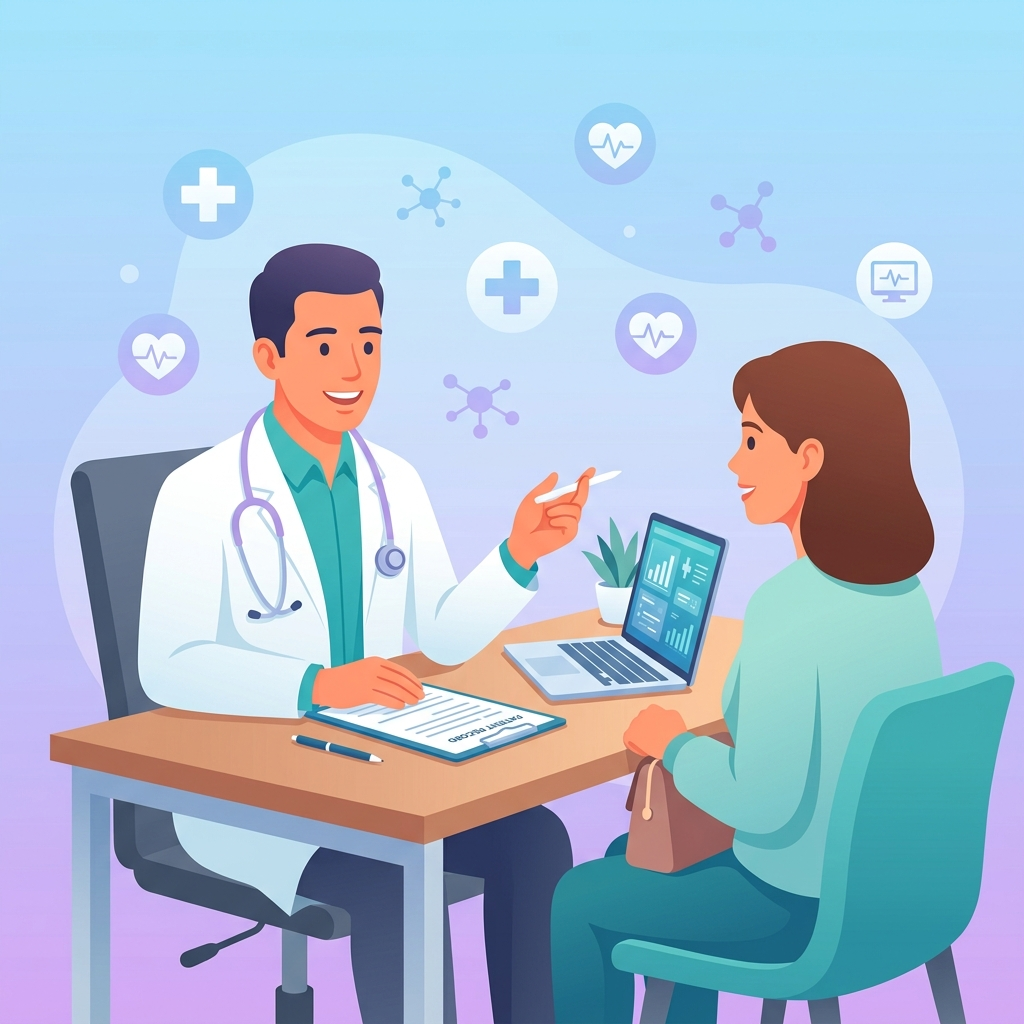
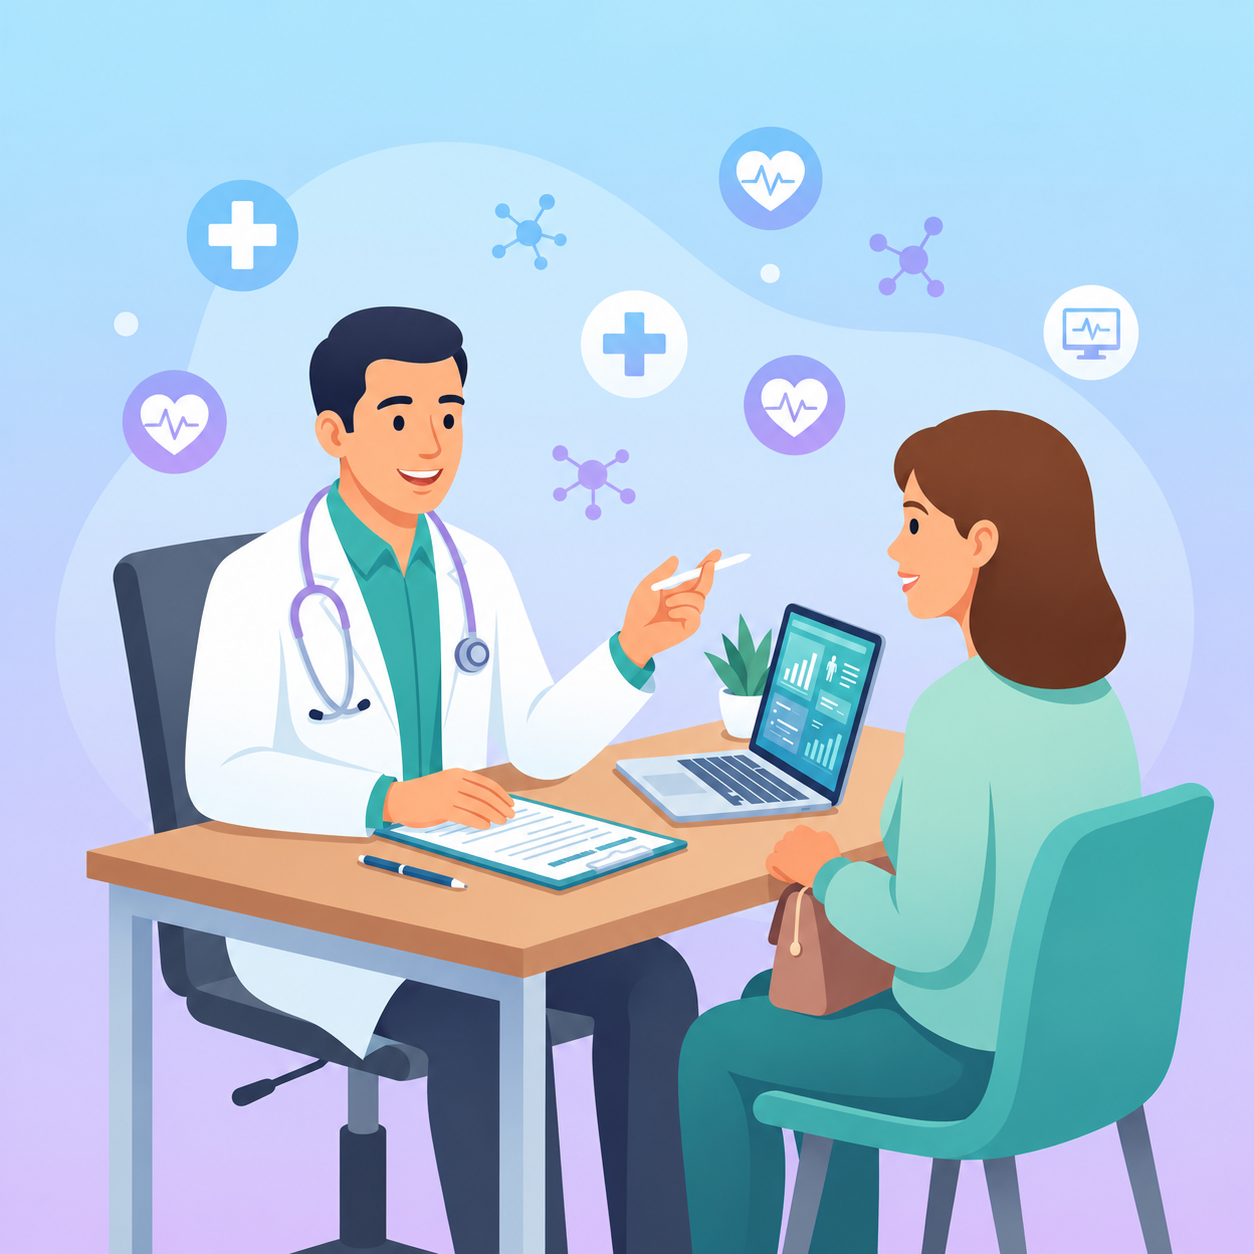
OPD Consultation image position update

diff --git a/Patient Case Tracking/Frontend/src/components/ui/hero-with-group-of-images-text-and-two-buttons.jsx b/Patient Case Tracking/Frontend/src/components/ui/hero-with-group-of-images-text-and-two-buttons.jsx
@@ -125,7 +125,7 @@ function Hero({ onStartCheckIn, onDoctorPortal }) {
               <img
                 src={heroDoctorImg}
                 alt="Doctor consultation in OPD"
-                className="w-full h-full object-cover object-center group-hover:scale-105 transition-transform duration-500 ease-out"
+                className="w-full h-full object-cover object-[center_20%] group-hover:scale-110 transition-transform duration-500 ease-out"
                 loading="eager"
               />
               <div className="absolute inset-0 bg-gradient-to-t from-slate-950/60 via-transparent to-transparent opacity-80 group-hover:opacity-90 transition-opacity" />
